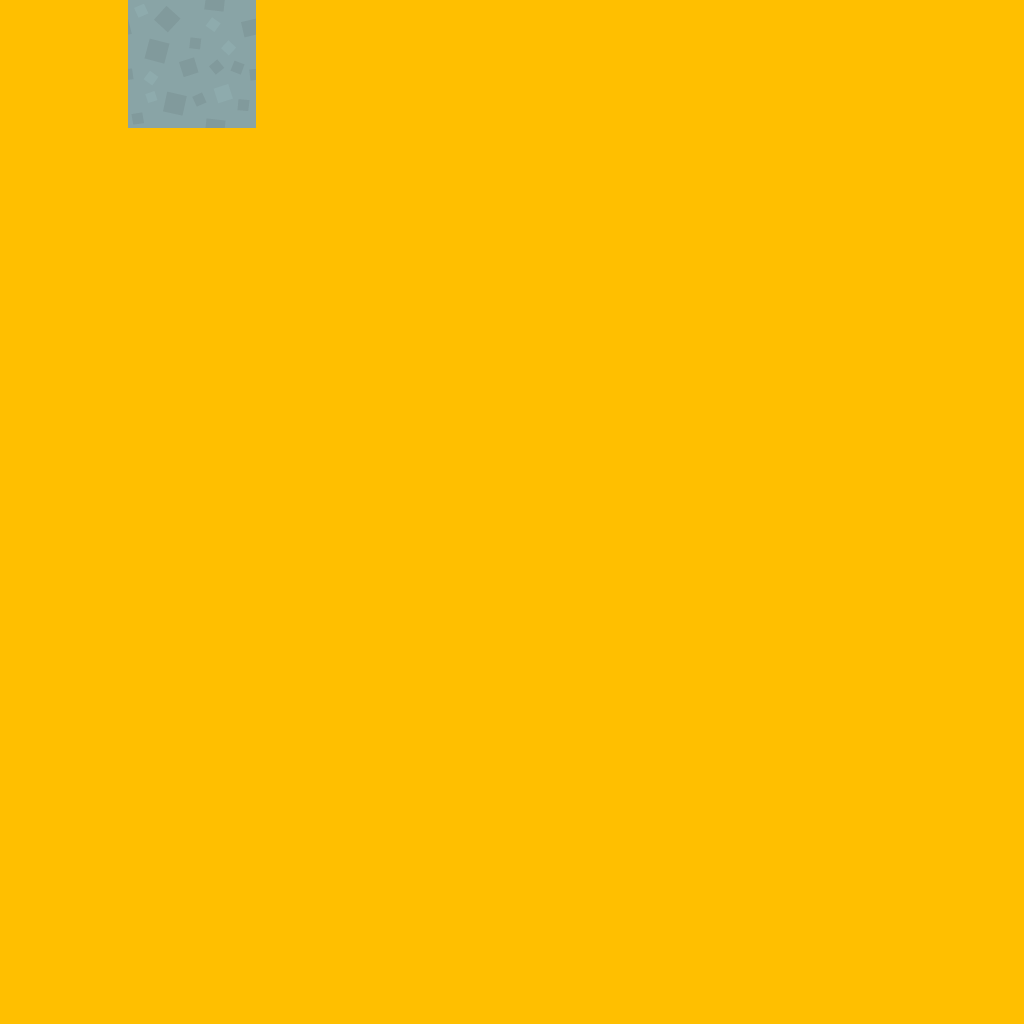
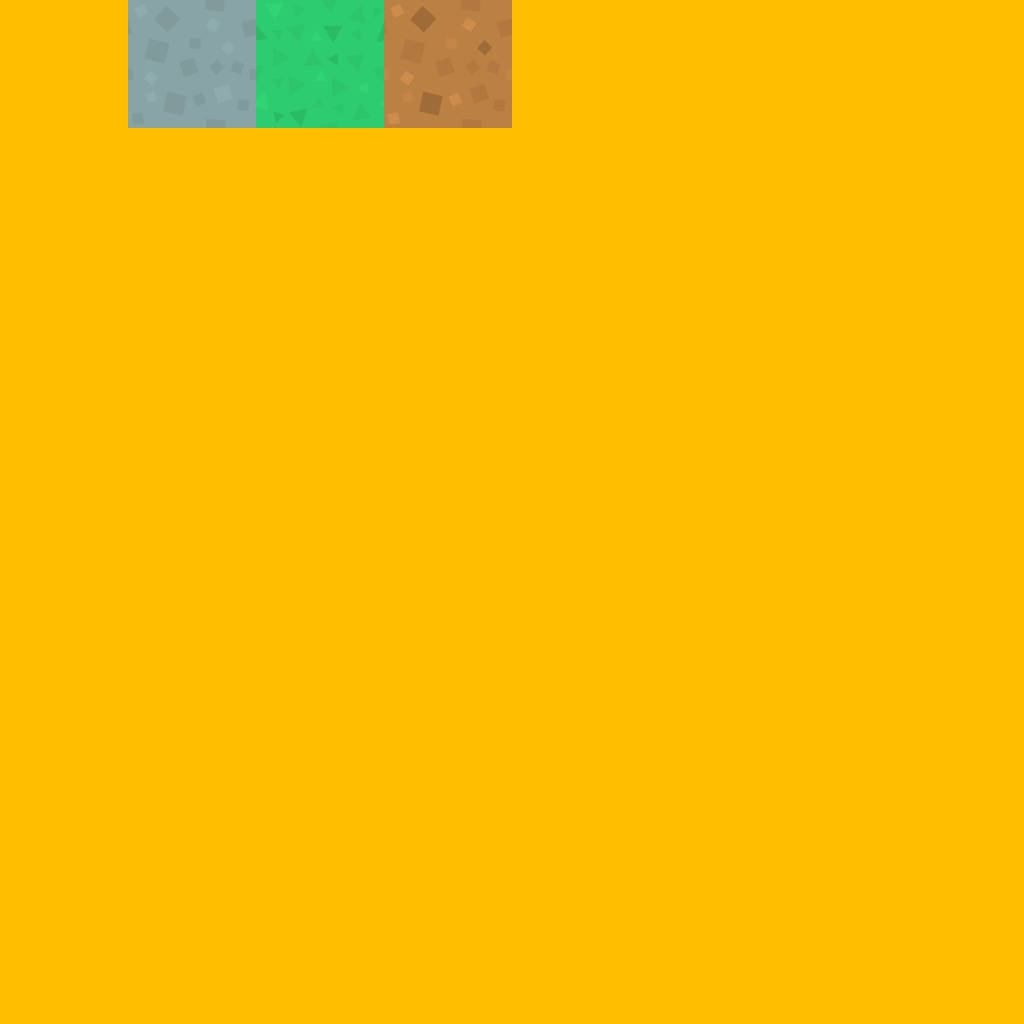
Added grass and dirt

Changed region(s): [[0.25, 0.0, 0.5, 0.125]]

diff --git a/chunk.c b/chunk.c
@@ -12,11 +12,15 @@ void randomly_populate(Chunk * chunk)
 		for (int k = 0; k < CHUNK_SIZE; ++k) {
 			int height = get_height(i, k);
 			for (int j = 0; j < CHUNK_SIZE; ++j) {
-				if (j < height) {
-					chunk->blocks[INCHUNK_INDEX(i, j, k)].type = 1;
-				} else {
-					chunk->blocks[INCHUNK_INDEX(i, j, k)].type = 0;
-				}
+			  int type = 0;
+			  if (j < height - 4) {
+				type = 1;
+			  } else if (j < height - 1) {
+				type = 3;
+			  } else if (j == height - 1) {
+				type = 2;
+			  }
+			  chunk->blocks[INCHUNK_INDEX(i, j, k)].type = type;
 			}
 		}
 	}
